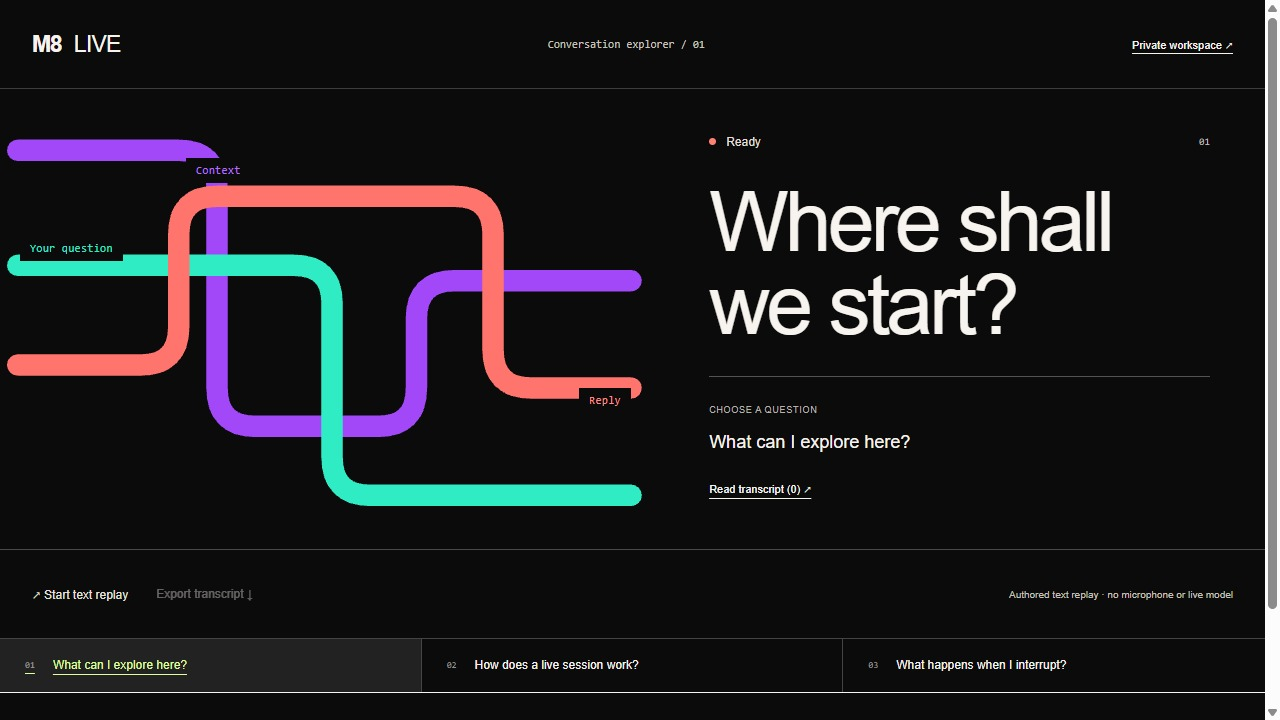
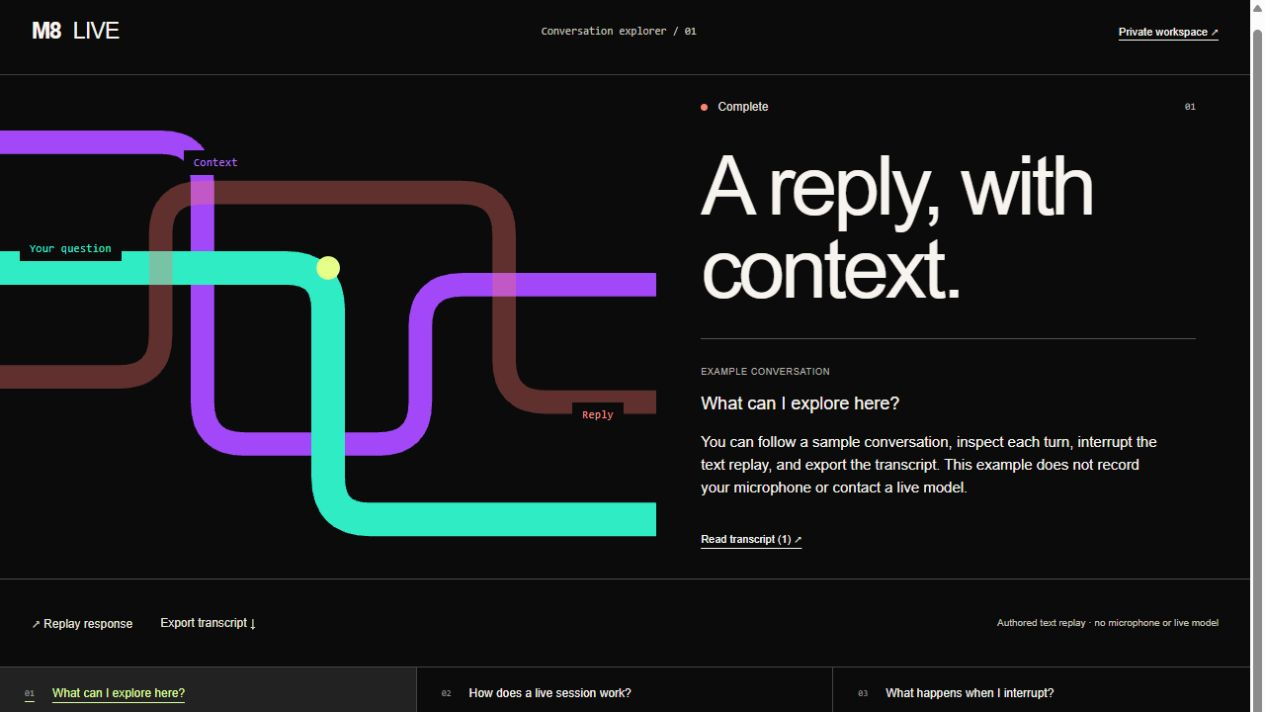
Show original captures from the published English voice workspace

diff --git a/docs/PRODUCT.md b/docs/PRODUCT.md
@@ -8,12 +8,12 @@ An English conversation workspace with a private speech and model relay.
 
 ## Phone
 
-![Current phone workspace at a 390px viewport](images/workspace-mobile.jpg)
+![Current phone transcript and live conversation access at a 390px viewport](images/workspace-mobile.jpg)
 
 ## Try it
 
-Follow [local setup](../demo/README.md). Guest exploration uses authored examples. The [engine setup](../demo/ENGINES.md) explains which actions use the repository engine and which need private provider configuration. Private workspace access uses the existing passkey flow.
+Open [the English HTTPS workspace](https://voice.kennethyepez.com) or follow [local setup](../demo/README.md). Guest exploration uses authored examples. Live conversation requires a passkey and available session capacity. The [engine setup](../demo/ENGINES.md) explains private operator configuration.
 
-These are original browser captures of the current interface. No image was cropped, resized or regenerated. The CSS maintenance change preserves the selected composition and removes the other products’ styles.
+These original browser captures show the published HTTPS interface. The phone view shows its transcript and live access section. No image was cropped, resized or regenerated.
 
 [Watch the workspace recording](examples/workspace-walkthrough.mp4). It contains actual browser frames with idle waits shortened and no narration. It demonstrates the authored workflow; it does not record a live provider or a completed human authentication flow.
